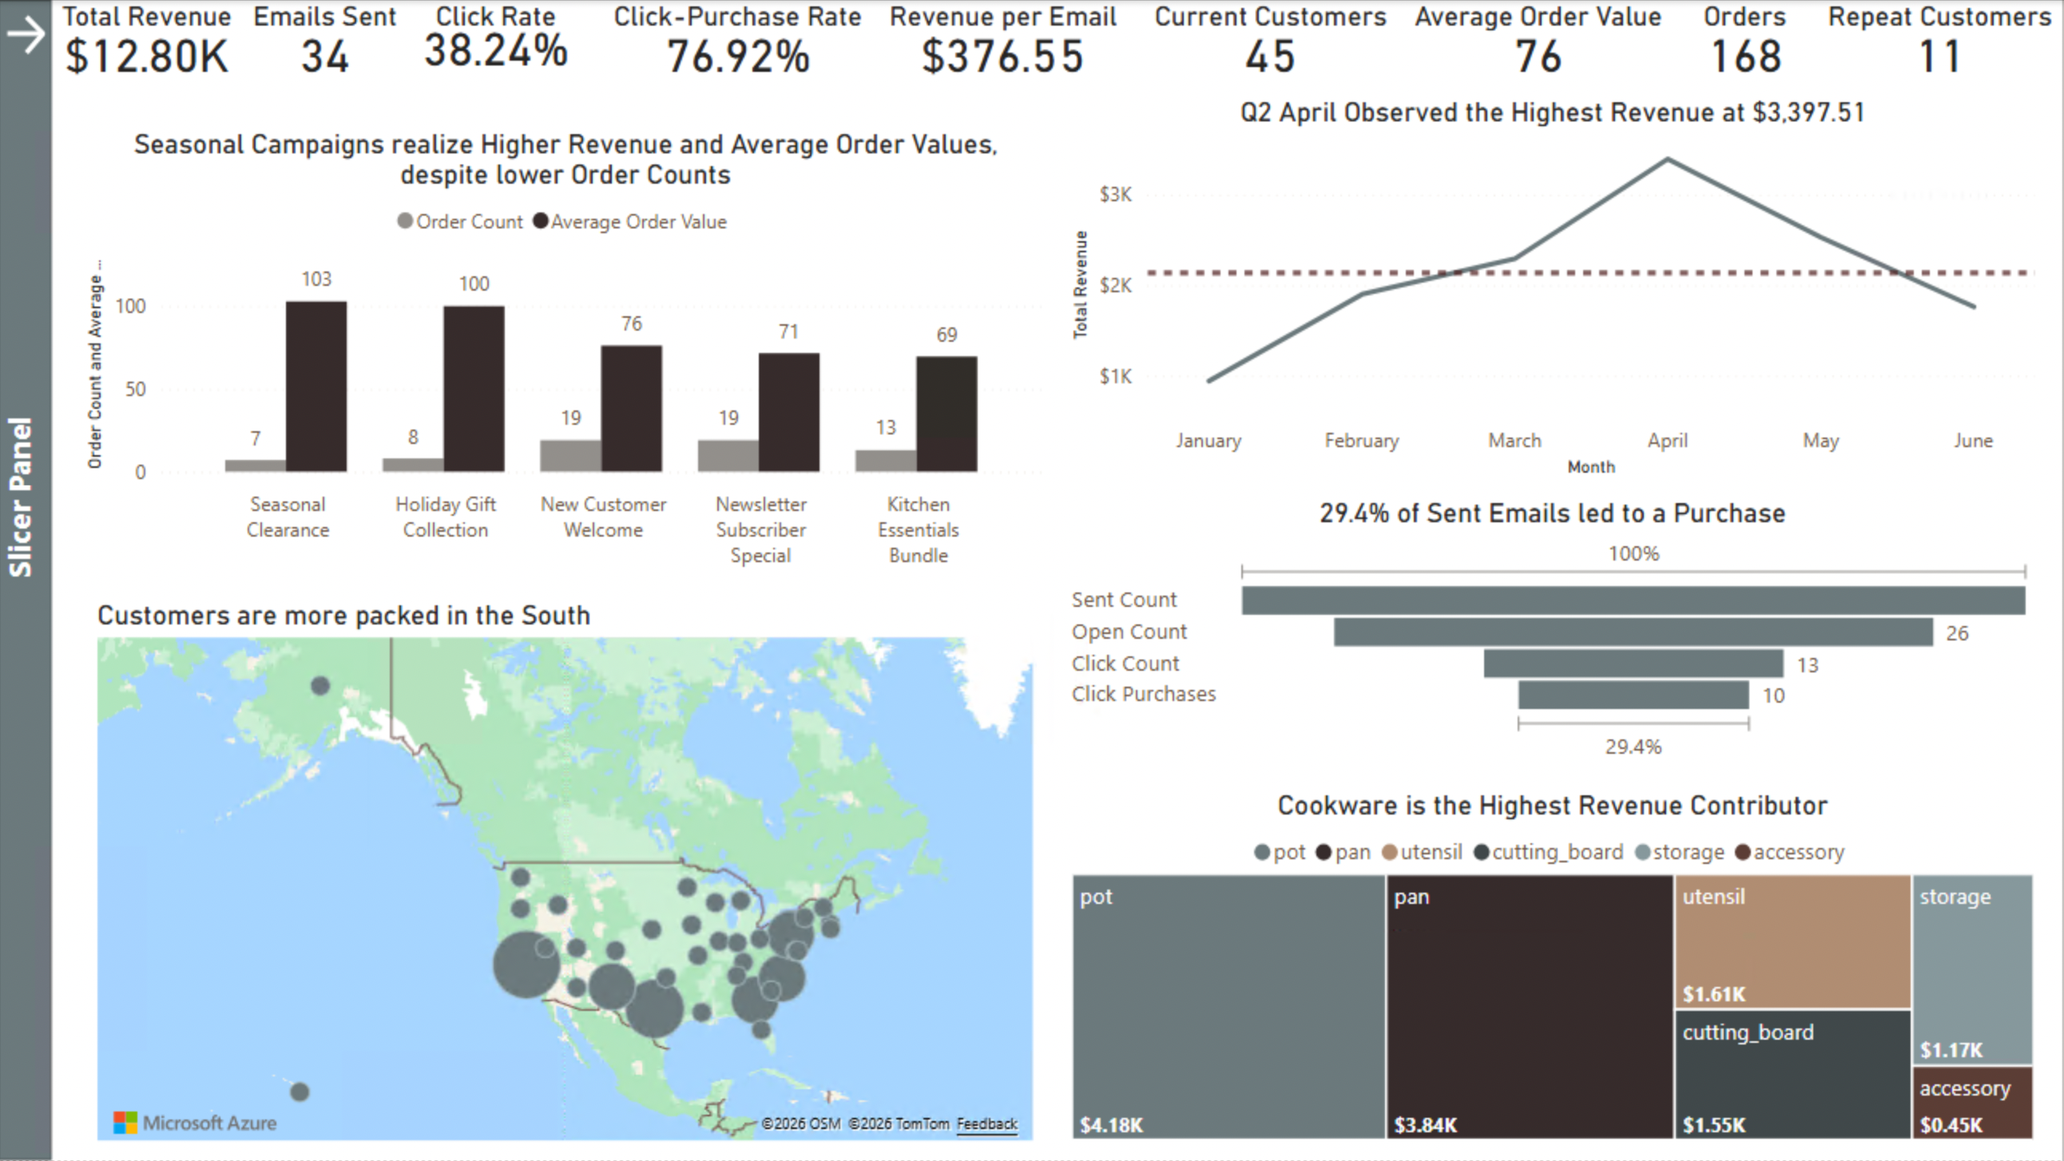
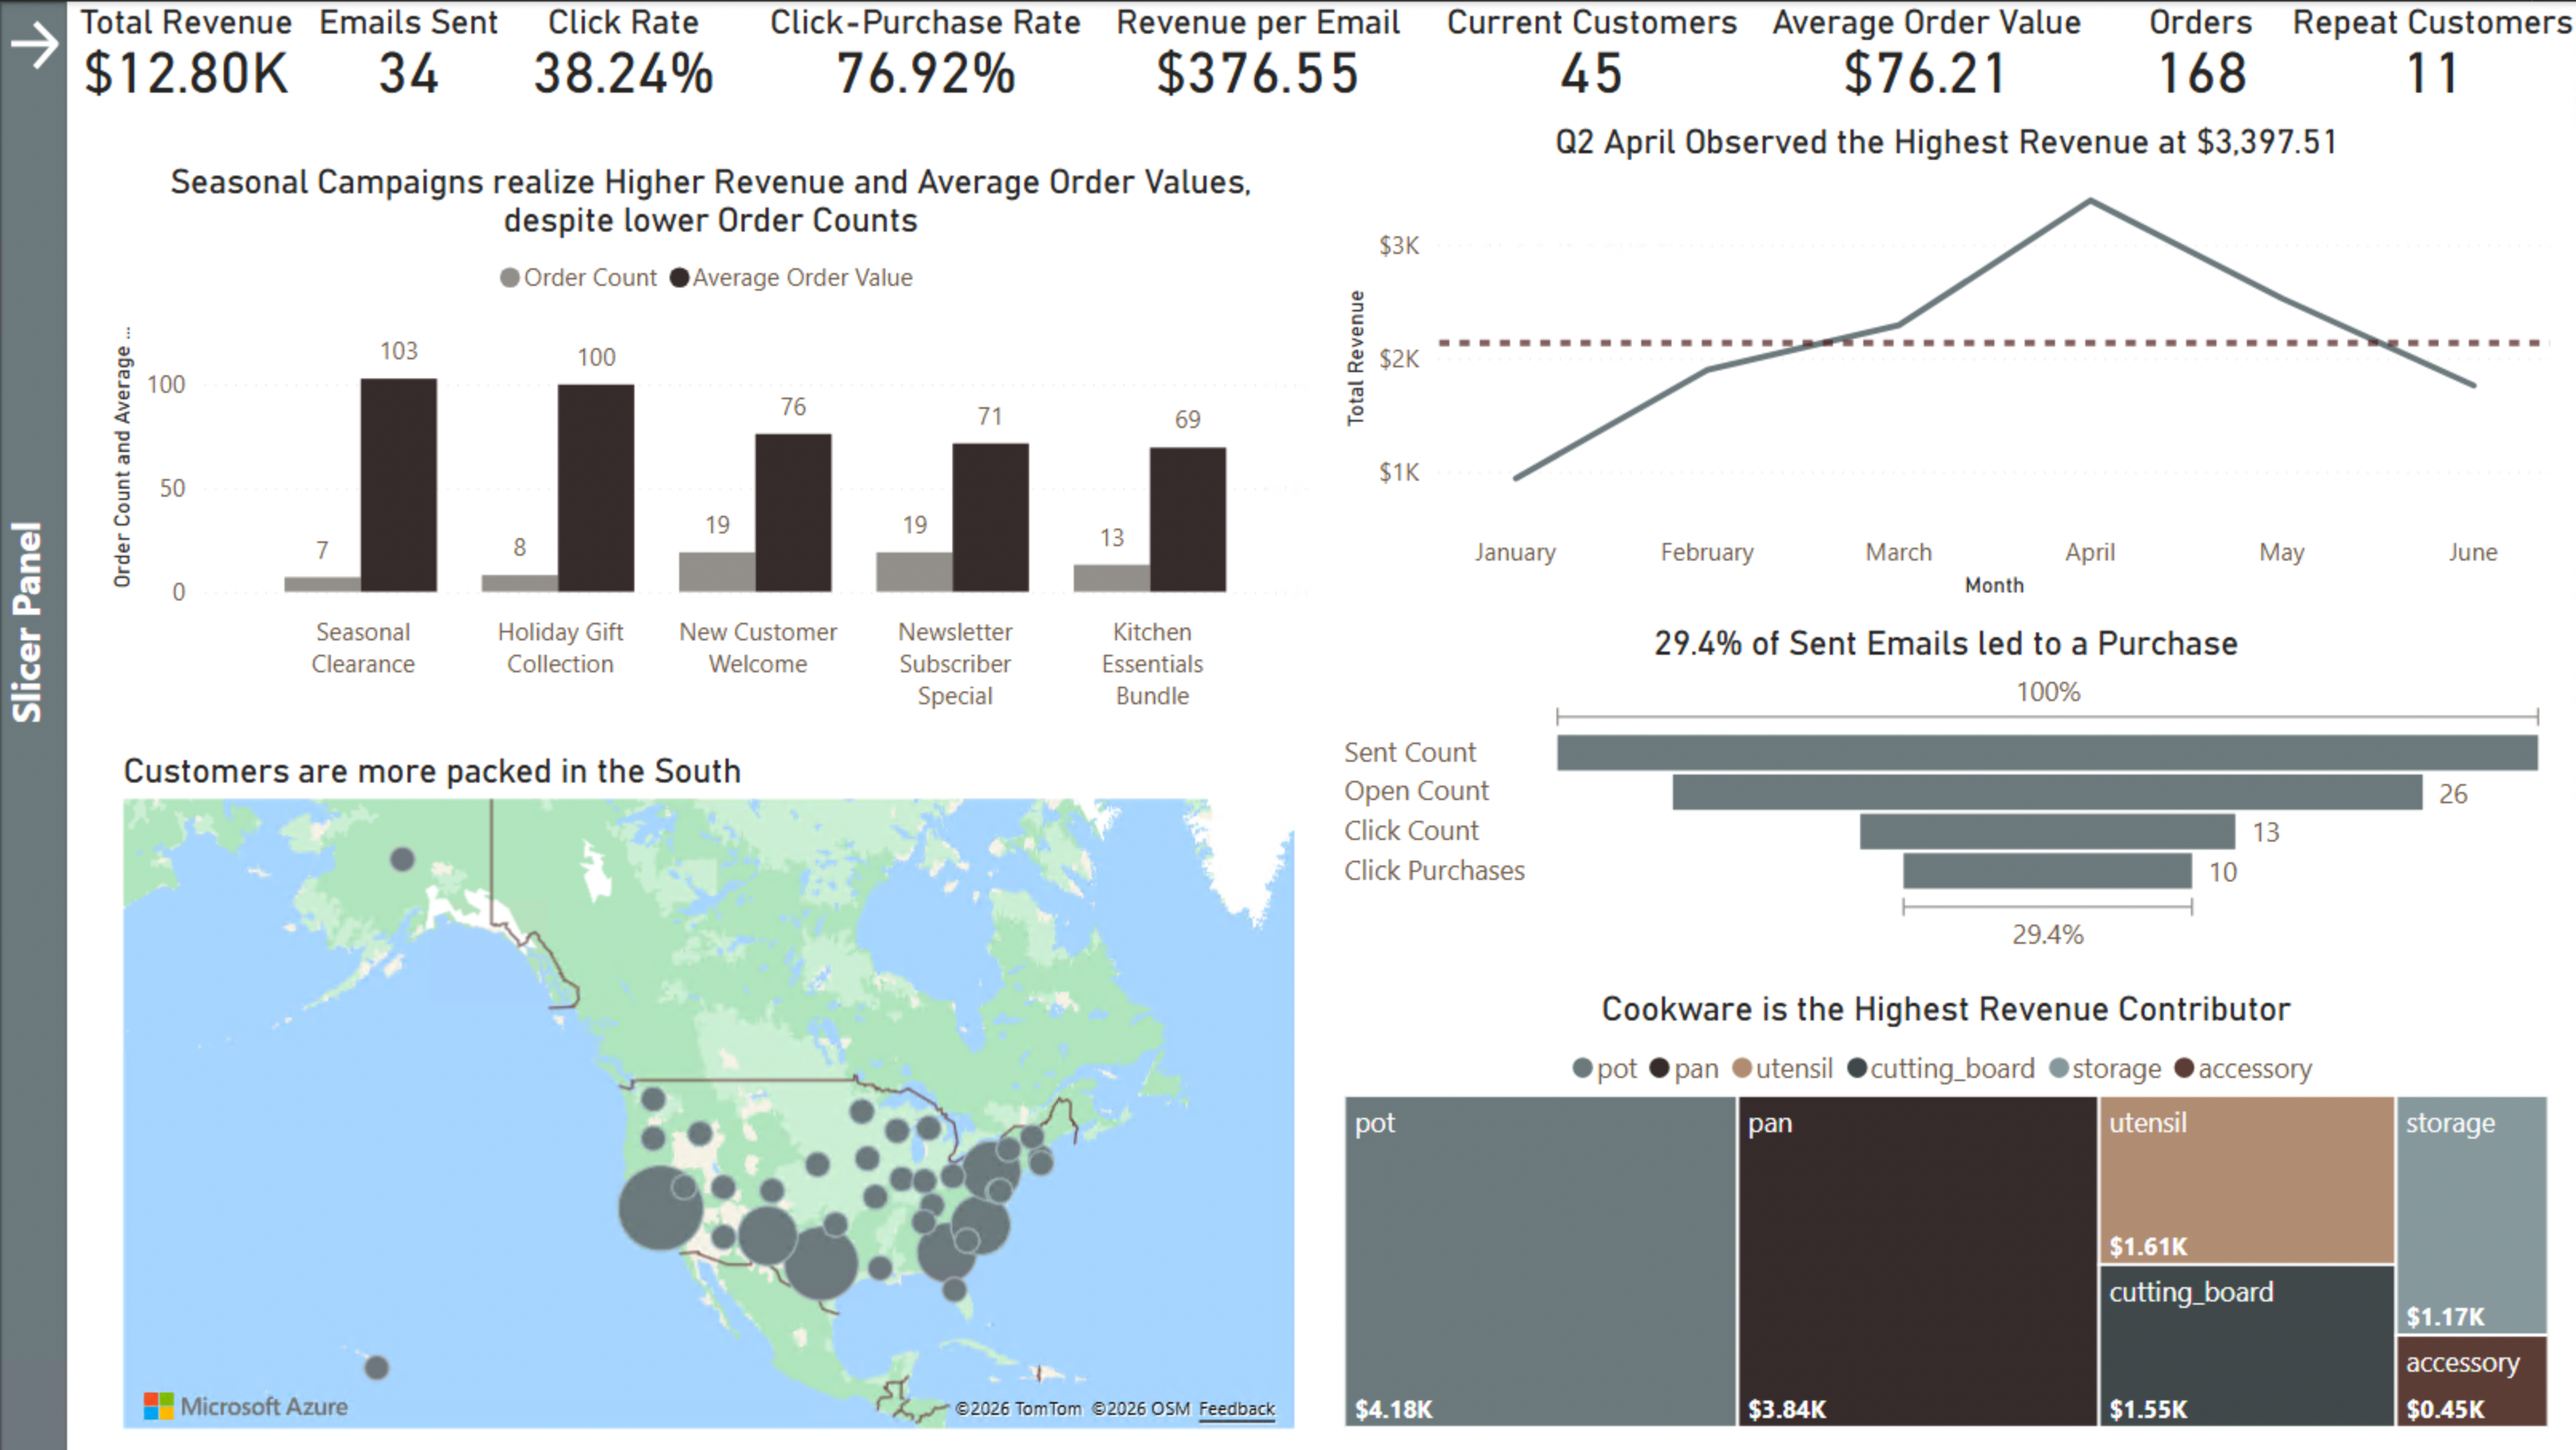
Finalized README

diff --git a/README.md b/README.md
@@ -320,6 +320,7 @@ This warehouse is designed to help Eco Essentials answer practical leadership qu
 4. Which customer segments (by engagement tier, geography, or repeat behavior) contribute the most long-term value?
 5. What is the relationship between email engagement events (sent, open, click) and downstream purchases?
 6. Where are marketing drop-off points in the funnel, and which stage has the biggest opportunity for improvement?
+7. How are sales trending over time?
 
 ---
 
